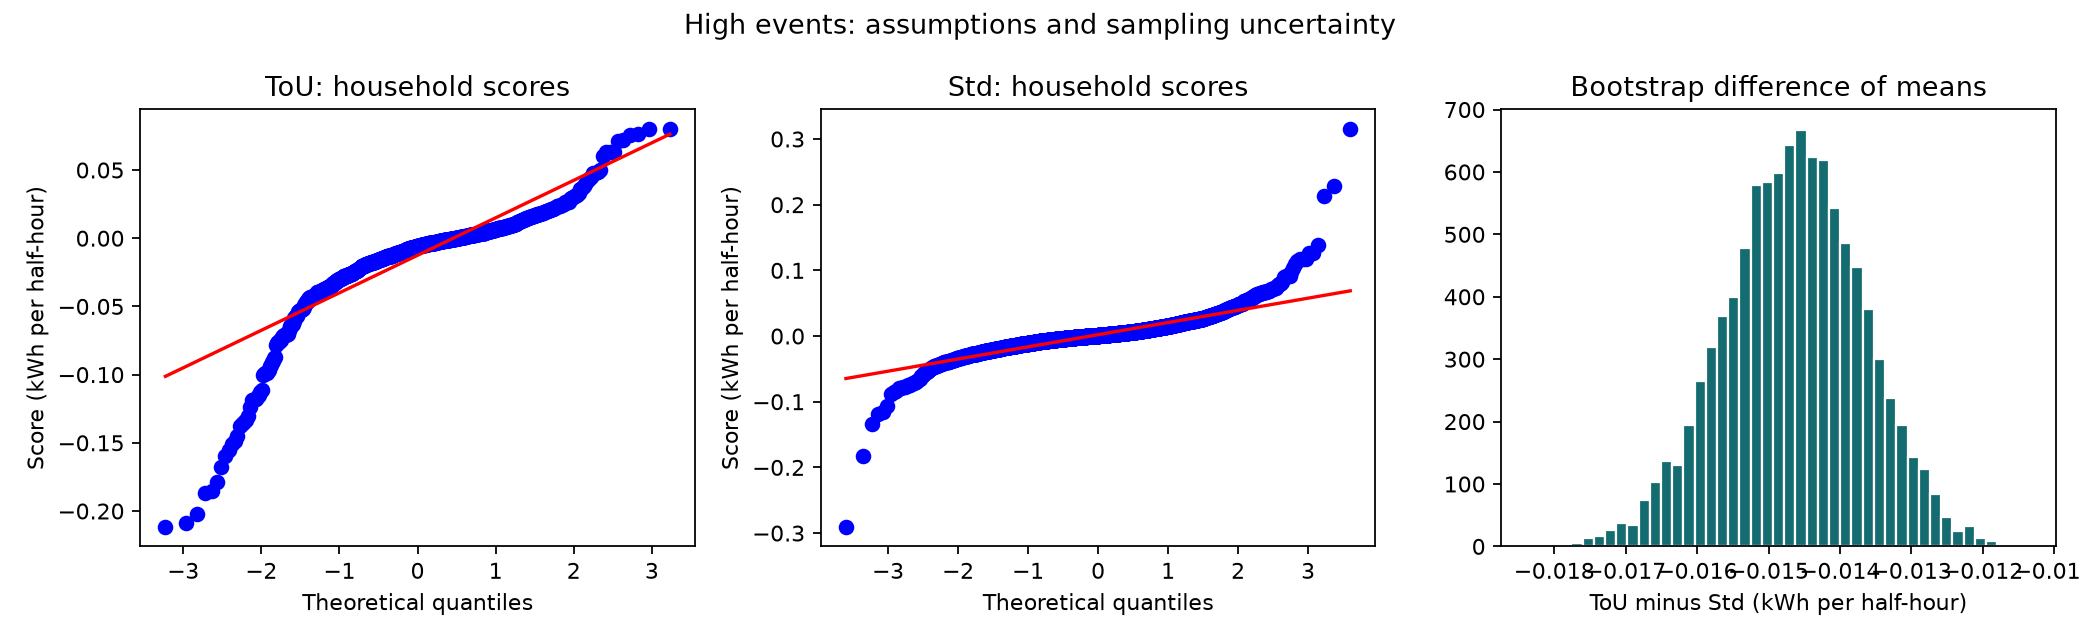
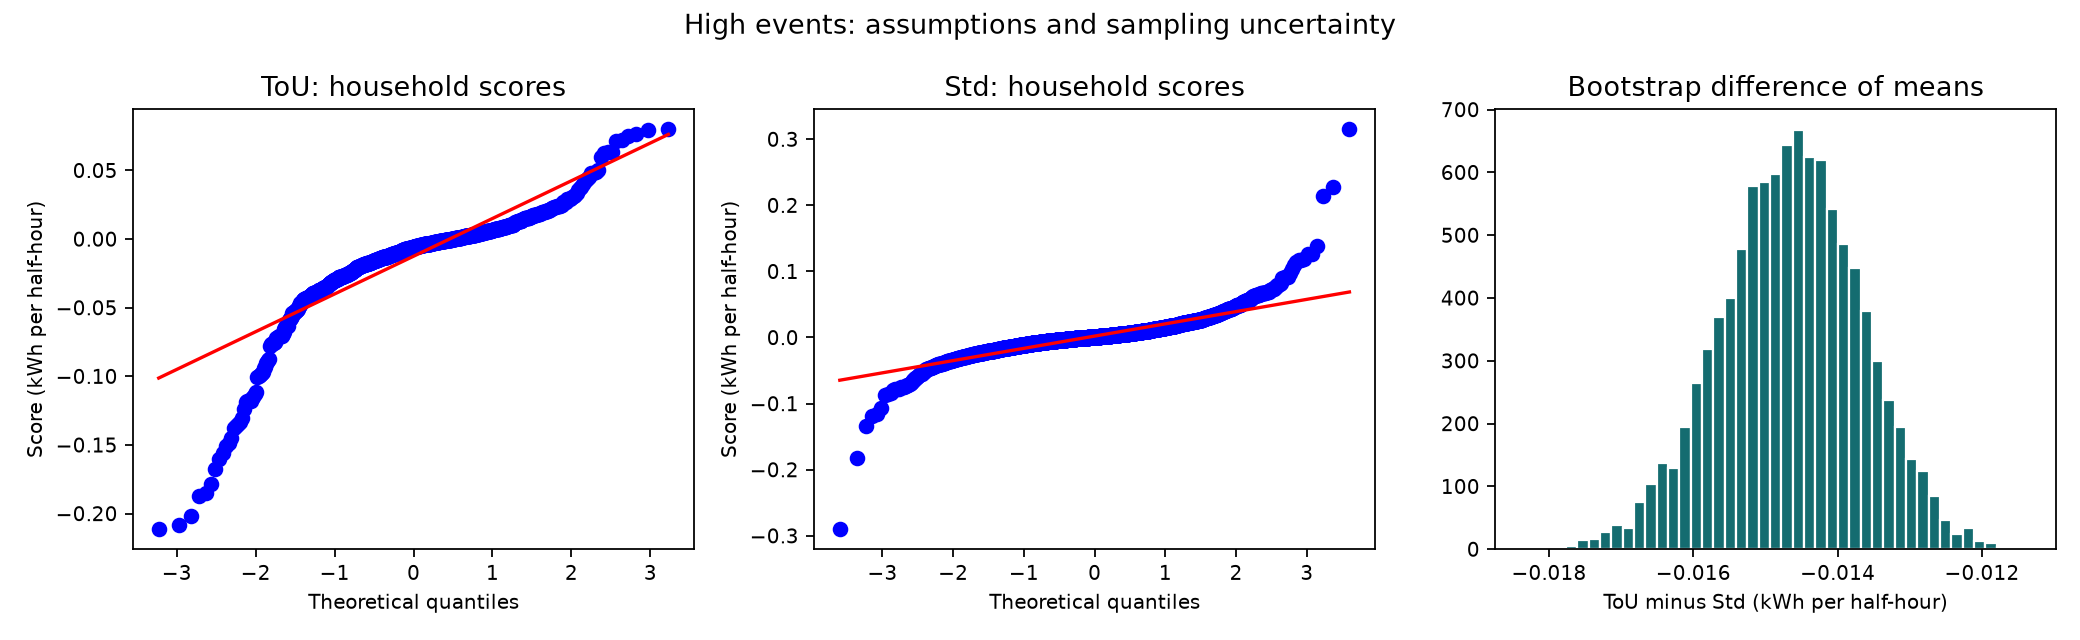
Verify clean-clone reproduction and clarify final diagnostic presentation

diff --git a/src/11_writeup.py b/src/11_writeup.py
@@ -113,6 +113,32 @@ measure coincident network-peak savings and actual operating costs before a broa
 - Low-event signed change: **{low['effect_kw']:.4f} kW/home**, 95% CI **{interval(low['ci_kw'],4)}**.
 - Low signed percent change: **{low['pct']:.2f}%**.
 
+## The main calculation, step by step
+
+1. Mean ToU High household score: **{high['mean_tou']:.8f} kWh per half-hour**.
+2. Mean Std High household score: **{high['mean_std']:.8f} kWh per half-hour**.
+3. Subtract Std from ToU: **Delta = {high['effect_kwh']:.8f} kWh per half-hour**.
+   This compares the groups' changes from their own normal use, not their raw demand.
+4. Convert half-hour energy to power by multiplying by two:
+   **signed change = {high['effect_kw']:.8f} kW**. Reverse its sign to describe a cut:
+   **reduction = {high['reduction_kw']:.8f} kW**.
+5. Divide Delta by the mean ToU normal-use value,
+   **{high['normal_tou']:.8f} kWh per half-hour**, and multiply by 100:
+   signed change **{high['pct']:.4f}%**, or reduction **{high['reduction_pct']:.4f}%**.
+6. Scale the reduction to {contexts['scale_households']:,} similar homes and divide
+   kW by 1,000: **{high['reduction_mw_50k']:.6f} MW** during these event hours.
+7. The bootstrap interval for Delta is **{interval(high['ci_kwh'],8)} kWh per half-hour**.
+   Multiplying by minus two and reversing endpoints gives the reduction interval
+   **{interval(high['ci_reduction_kw'],8)} kW**.
+8. Its upper endpoint, **{high['ci_reduction_kw'][1]:.8f} kW**, is below the fixed central
+   threshold, **{contexts['thresholds_kw']['central']:.3f} kW**. The rule therefore returns
+   **{d['decision_central']}**, despite evidence that demand does fall.
+
+For Low events the same subtraction uses mean scores {low['mean_tou']:.8f} (ToU)
+and {low['mean_std']:.8f} (Std). Delta is **{low['effect_kwh']:.8f} kWh per half-hour**,
+or **{low['effect_kw']:.8f} kW**. A positive signed value means higher use. There is
+no rollout threshold for the Low question.
+
 ## All prespecified sensitivity results
 
 {chr(10).join(table)}
@@ -146,6 +172,12 @@ There are {ch['trials']:,} outer trials per tariff and {ch['inner_bootstrap_draw
 inner draws per trial. The true target in this check is the observed Delta imposed
 on the empirical populations. This is not direct knowledge of population truth.
 
+In the inherited simulation, stress-null coverage was
+{100*d['p4_simulation']['scenarios']['stress_null']['coverage']:.1f}%. This falls below the
+nominal coverage check range. That null scenario's prespecified gate criterion was
+false positives, which passed, rather than coverage. Keep this supplementary weakness
+visible instead of treating gate passage as proof of perfect calibration.
+
 ## Supporting event model
 
 The model used {model['n_events']} High events and {model['n_parameters']} parameters.
@@ -155,6 +187,8 @@ Predictors: {', '.join(model['predictors'])}. Held-out-month RMSE was
 Conclusion: **{model['conclusion']}**, but the RMSE improvement is only
 {100*model['cv_rmse_improvement_fraction']:.1f}%. Date-ordered Durbin-Watson was
 {model['durbin_watson']:.3f}; HC3 handles unequal variance, not serial dependence.
+The value below two suggests possible positive residual correlation, so coefficient
+uncertainty needs caution even though the required HC3 fit is retained.
 Influential events: {', '.join(model['influential_events']) or 'none'}.
 Coefficient and refit tables remain available for review.
 

diff --git a/src/10_model.py b/src/10_model.py
@@ -15,6 +15,7 @@ import numpy as np
 import pandas as pd
 import statsmodels.api as sm
 from scipy import stats
+from matplotlib.ticker import MaxNLocator
 from statsmodels.stats.outliers_influence import variance_inflation_factor
 from statsmodels.stats.stattools import durbin_watson
 
@@ -114,6 +115,11 @@ def main():
     axes[2].stem(np.arange(len(d)),cooks)
     axes[2].axhline(4/len(d),color="#b45309",ls="--")
     axes[2].set(xlabel="Events in date order",ylabel="Cook's distance",title="Influential events")
+    axes[0].xaxis.set_major_locator(MaxNLocator(4))
+    for ax in axes:
+        ax.tick_params(labelsize=9)
+        ax.xaxis.label.set_fontsize(9)
+        ax.yaxis.label.set_fontsize(9)
     fig.tight_layout(); fig.savefig(FIGURES/"model_diagnostics.png",dpi=170); plt.close(fig)
     save_result("regression",result)
     print(f"{len(d)} High events; CV model RMSE={rmse:.6g}, baseline={baseline:.6g}. {conclusion}")

diff --git a/src/09_tests.py b/src/09_tests.py
@@ -13,6 +13,7 @@ import matplotlib.pyplot as plt
 import numpy as np
 import pandas as pd
 from scipy import stats
+from matplotlib.ticker import MaxNLocator
 
 from check_gate import require_gate
 from config import FIGURES, RESULTS
@@ -31,6 +32,11 @@ def assumption_figures(tou,std,tariff):
     axes[2].hist(boot,bins=45,color="#146c70",edgecolor="white")
     axes[2].set_title("Bootstrap difference of means")
     axes[2].set_xlabel("ToU minus Std (kWh per half-hour)")
+    axes[2].xaxis.set_major_locator(MaxNLocator(4))
+    for ax in axes:
+        ax.tick_params(labelsize=9)
+        ax.xaxis.label.set_fontsize(9)
+        ax.yaxis.label.set_fontsize(9)
     fig.suptitle(f"{tariff} events: assumptions and sampling uncertainty")
     fig.tight_layout()
     fig.savefig(FIGURES/f"assumptions_{tariff.lower()}.png",dpi=160)

diff --git a/reports/LIN_RESULTS.md b/reports/LIN_RESULTS.md
@@ -10,6 +10,32 @@ The central decision rule does not support offering the tariff on these assumpti
 - Low-event signed change: **0.0332 kW/home**, 95% CI **0.0292 to 0.0375**.
 - Low signed percent change: **8.75%**.
 
+## The main calculation, step by step
+
+1. Mean ToU High household score: **-0.01253022 kWh per half-hour**.
+2. Mean Std High household score: **0.00209630 kWh per half-hour**.
+3. Subtract Std from ToU: **Delta = -0.01462652 kWh per half-hour**.
+   This compares the groups' changes from their own normal use, not their raw demand.
+4. Convert half-hour energy to power by multiplying by two:
+   **signed change = -0.02925305 kW**. Reverse its sign to describe a cut:
+   **reduction = 0.02925305 kW**.
+5. Divide Delta by the mean ToU normal-use value,
+   **0.23603076 kWh per half-hour**, and multiply by 100:
+   signed change **-6.1969%**, or reduction **6.1969%**.
+6. Scale the reduction to 50,000 similar homes and divide
+   kW by 1,000: **1.462652 MW** during these event hours.
+7. The bootstrap interval for Delta is **-0.01659700 to -0.01278468 kWh per half-hour**.
+   Multiplying by minus two and reversing endpoints gives the reduction interval
+   **0.02556936 to 0.03319401 kW**.
+8. Its upper endpoint, **0.03319401 kW**, is below the fixed central
+   threshold, **0.043 kW**. The rule therefore returns
+   **do not offer**, despite evidence that demand does fall.
+
+For Low events the same subtraction uses mean scores 0.01623243 (ToU)
+and -0.00036248 (Std). Delta is **0.01659491 kWh per half-hour**,
+or **0.03318983 kW**. A positive signed value means higher use. There is
+no rollout threshold for the Low question.
+
 ## All prespecified sensitivity results
 
 | Tariff | Run | ToU / Std | Signed effect (kW) | High reduction or Low change, 95% CI (kW) | Welch p | MW p | Cohen's d | Decision |
@@ -54,6 +80,12 @@ There are 1,000 outer trials per tariff and 2,000
 inner draws per trial. The true target in this check is the observed Delta imposed
 on the empirical populations. This is not direct knowledge of population truth.
 
+In the inherited simulation, stress-null coverage was
+93.3%. This falls below the
+nominal coverage check range. That null scenario's prespecified gate criterion was
+false positives, which passed, rather than coverage. Keep this supplementary weakness
+visible instead of treating gate passage as proof of perfect calibration.
+
 ## Supporting event model
 
 The model used 63 High events and 5 parameters.
@@ -63,6 +95,8 @@ Predictors: evening, hours, winter, low_before. Held-out-month RMSE was
 Conclusion: **timing/length predict response better than the mean baseline**, but the RMSE improvement is only
 1.4%. Date-ordered Durbin-Watson was
 1.271; HC3 handles unequal variance, not serial dependence.
+The value below two suggests possible positive residual correlation, so coefficient
+uncertainty needs caution even though the required HC3 fit is retained.
 Influential events: H016.
 Coefficient and refit tables remain available for review.
 

diff --git a/reports/REPRODUCIBILITY.md b/reports/REPRODUCIBILITY.md
@@ -1,0 +1,36 @@
+# Reproducibility check
+
+**Status: passed.** A fresh local clone at commit `bcc72c225efa4d626ad24235a2bd0ec1b72ce5bb` ran
+`python run_all.py` in a separate clean environment with the pinned packages.
+The virtual environment did not inherit system packages. The supplied prepared matrix
+and tariff workbook were copied as external inputs, with frozen Stage 4 calibration
+already committed. This tests Lin's complete prepared-input route.
+
+| Output | Comparison |
+|---|---|
+| `results/results.json` | Exact match |
+| `results/boot_high.npy` | Exact match |
+| `results/boot_low.npy` | Exact match |
+| `results/coverage_trials.csv` | Exact match |
+| `results/sensitivity_table.csv` | Exact match |
+| `results/estimates.csv` | Exact match |
+| `results/regression_coefficients.csv` | Exact match |
+| `results/regression_cv_predictions.csv` | Exact match |
+| `figures/decision.png` | Exact match |
+| `figures/assumptions_high.png` | Exact match |
+| `figures/assumptions_low.png` | Exact match |
+| `figures/model_diagnostics.png` | Exact match |
+
+The result dictionary comparison is byte-for-byte, stronger than checking rounded
+report values. Main bootstrap draws and all empirical coverage-trial records are also
+checked exactly. Tests are append-only, so execution timestamps and commit labels are
+not expected to match. SVG metadata timestamps are not a numerical target.
+
+This does **not** establish a fresh raw-download reproduction of the full team project:
+original household CSVs and EDA scripts were not supplied, Nyo's original 4,000 trials
+were audited rather than regenerated, and historical preregistration cannot be proved.
+The original independent raw-CSV hand check needs those files. The supplied reading
+export's arithmetic and raw-writer edge cases have separate automated tests.
+
+Machine-readable evidence: `results/reproducibility.json`. The clone is retained under
+`tmp/` for inspection and is excluded from Git. No remote repository was changed.

diff --git a/reports/HANDOFF_CHECKLIST.md b/reports/HANDOFF_CHECKLIST.md
@@ -1,0 +1,27 @@
+# Lin's handoff checklist
+
+## Prepared and checked
+
+- Estimates for the original High and Low questions, with full-precision saved values.
+- Household bootstrap intervals, all unit conversions and three High threshold decisions.
+- Main bootstrap draws for Arpan and all planned sensitivity comparisons.
+- Additional empirical resampling coverage checks for both tariffs.
+- Decision and assumption figures, plus the prespecified High-event model and diagnostics.
+- Ready-to-copy estimates/conclusion sections and speaking notes with Q&A.
+- Three editable slides with a native data chart, native threshold table and notes.
+- Comments and plain-language explanations for programs, actions, assumptions and results.
+- Tests and a clean-environment, fresh-local-clone reproduction receipt.
+- Local version history, original submission hashes and dated integration decisions.
+
+## Requires team participation or missing source files
+
+- Another teammate reviews the branch and resolves its documented scope/ownership
+  differences against the team's current decisions. Original scope was restored here.
+- The team merges the local `lin-complete` branch into its actual shared repository.
+- Original raw household CSVs enable a new independent raw extraction/hand-check and
+  a full download-to-results reproduction. The EDA source is also needed for its figures.
+- The team checks historical preregistration using the original remote Git history.
+- Lin combines these slides with the team's deck and participates in timed rehearsals.
+
+No messages were sent, no remote commits were pushed, and no private source data was
+uploaded. These remaining steps are explicit rather than represented as completed.
